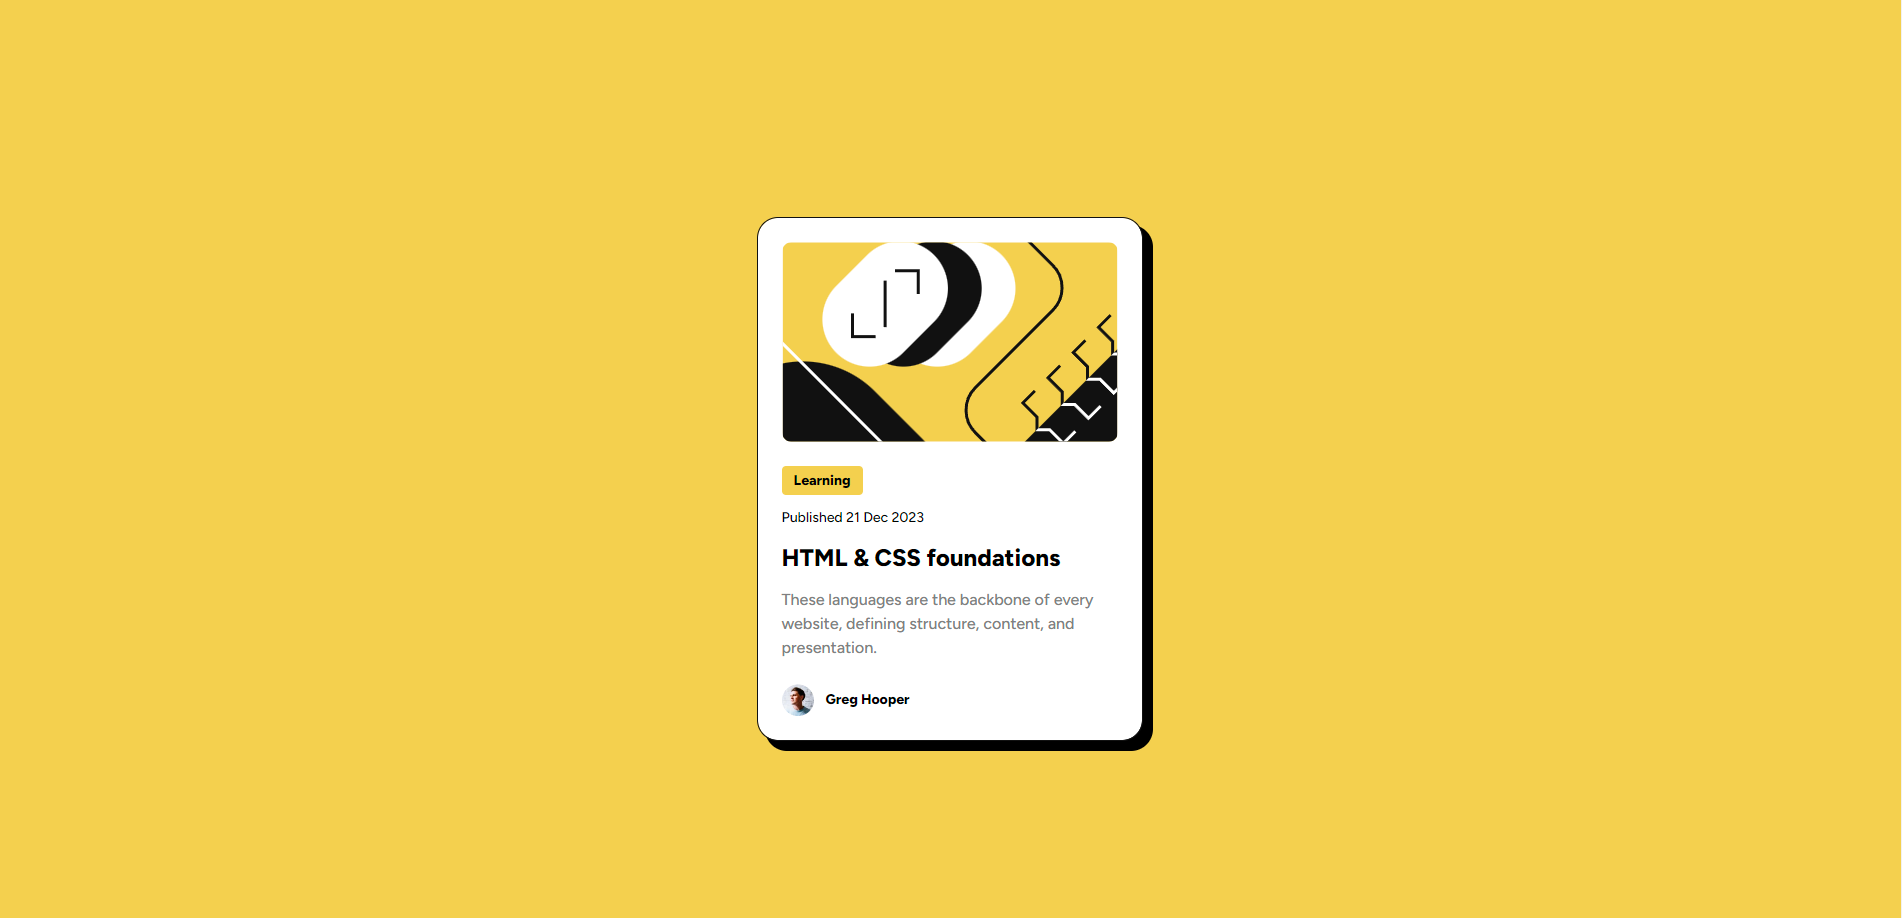
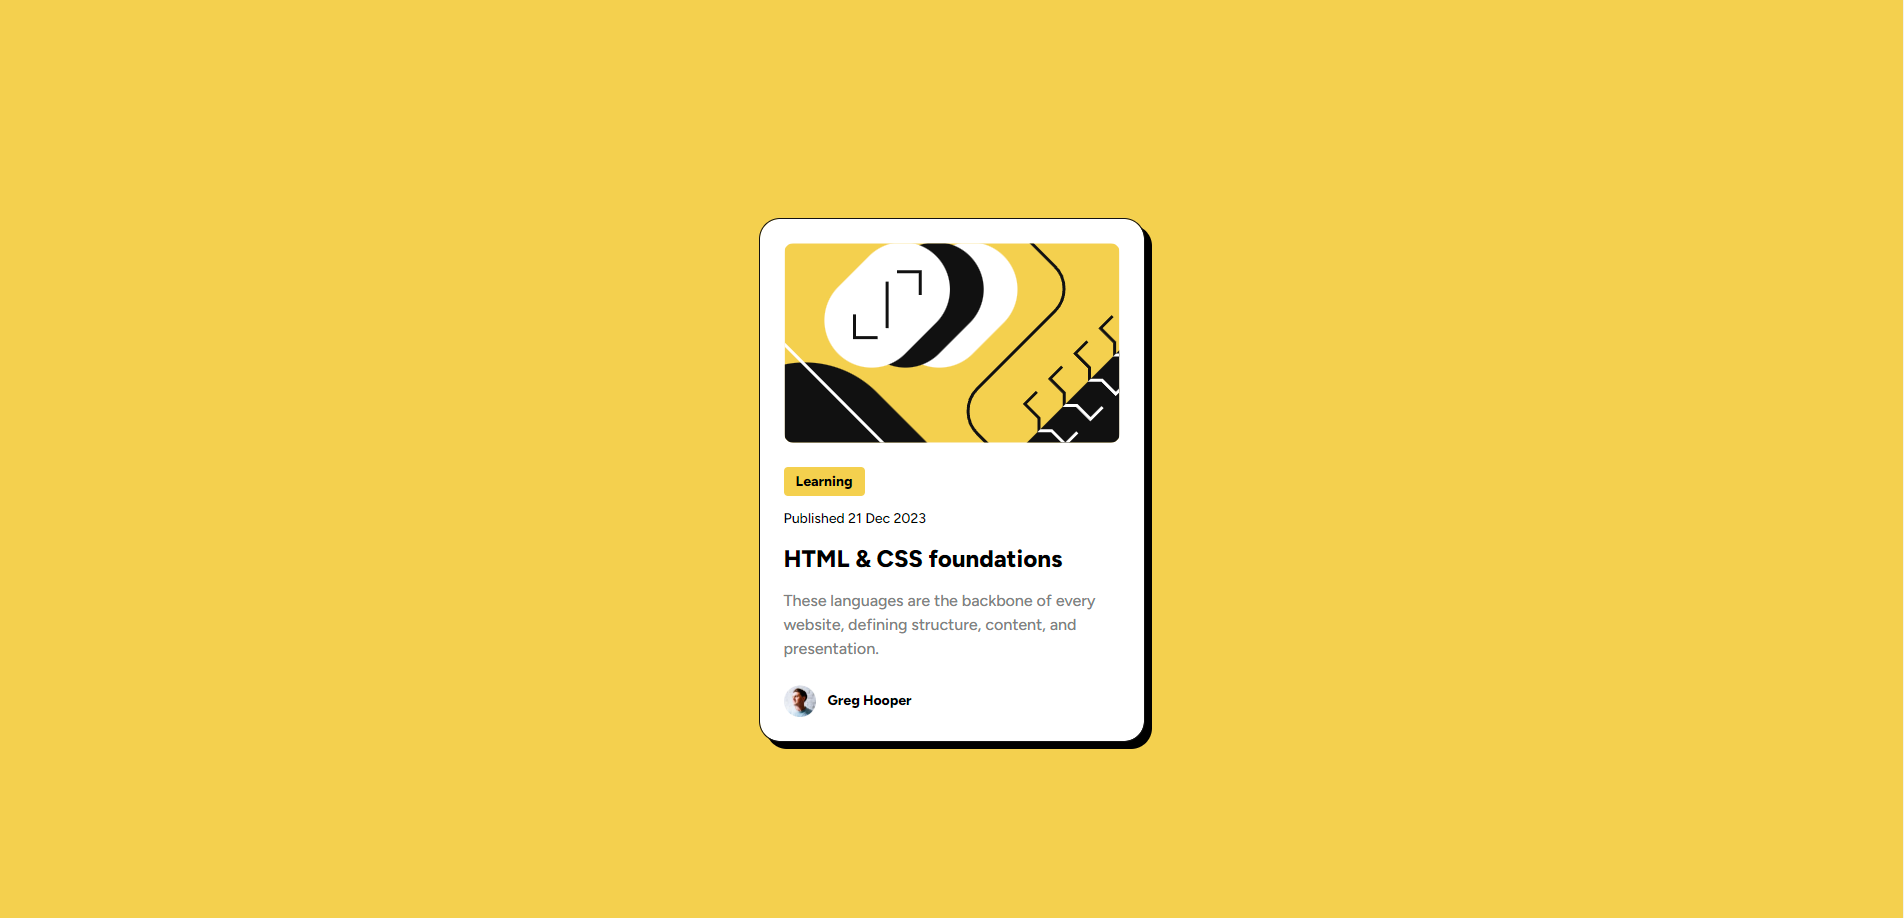
fixing box-shadow

diff --git a/css/style.css b/css/style.css
@@ -46,7 +46,7 @@ body {
 	border: none;
 	outline: 1px solid var(--dark);
 	border-radius: 2rem;
-	box-shadow: 9px 9px 0px 1px rgba(0, 0, 0, 1);
+	box-shadow: 7px 7px 0px 1px rgba(0, 0, 0, 1);
 }
 
 .blog-image {
@@ -68,7 +68,6 @@ body {
 }
 
 .content__category {
-	/* padding: 0.6rem 0; */
 	font-size: var(--fs-small);
 	font-weight: var(--fw-bold);
 }
